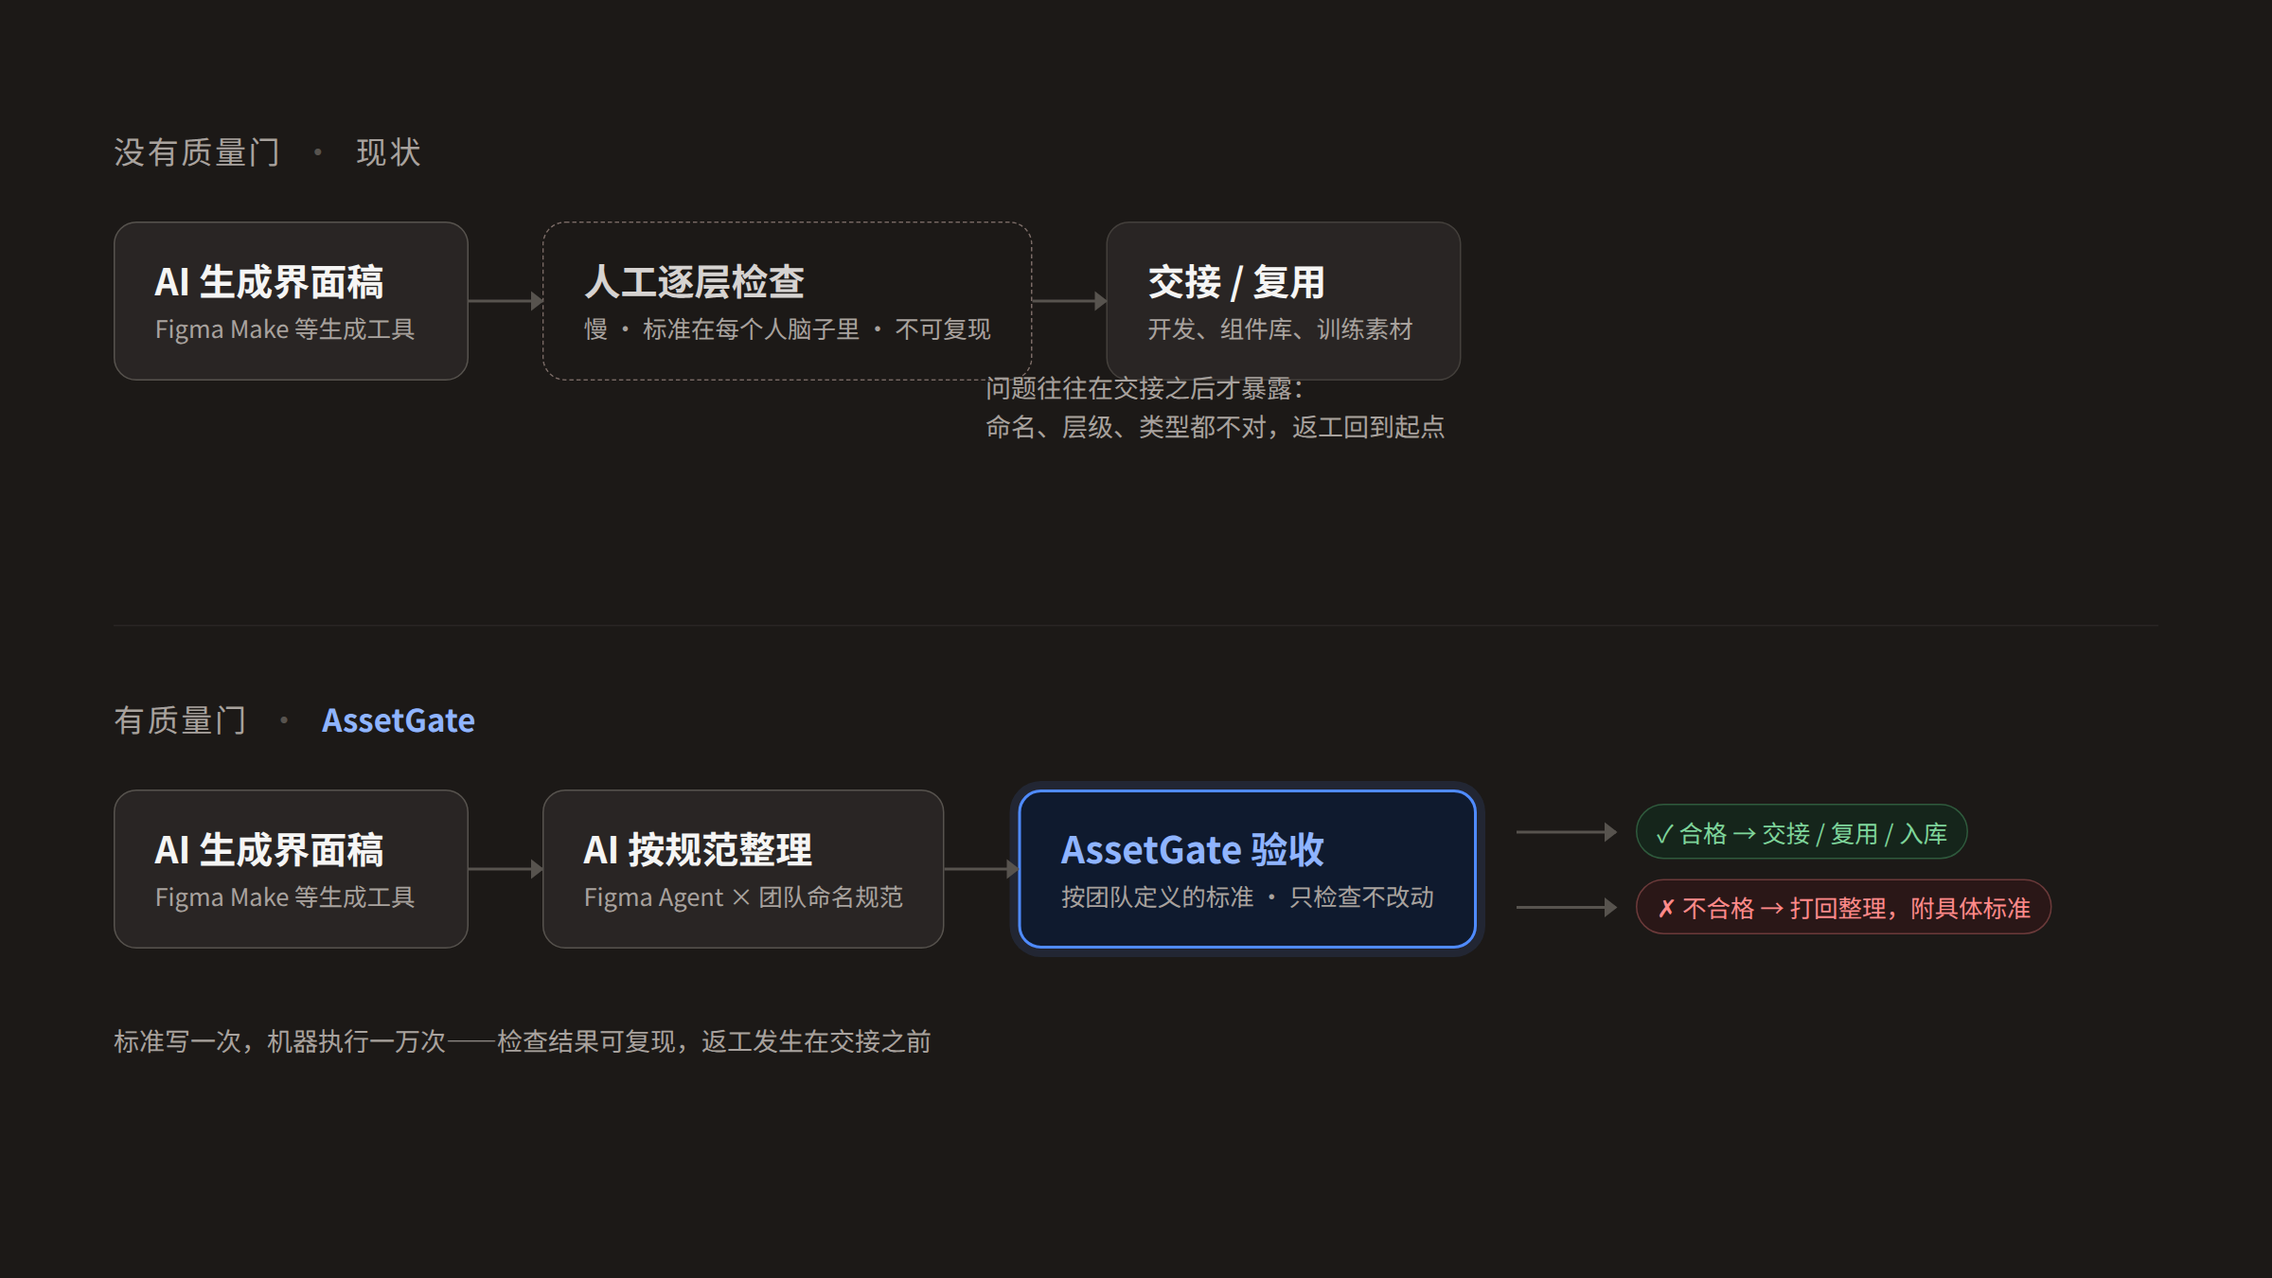
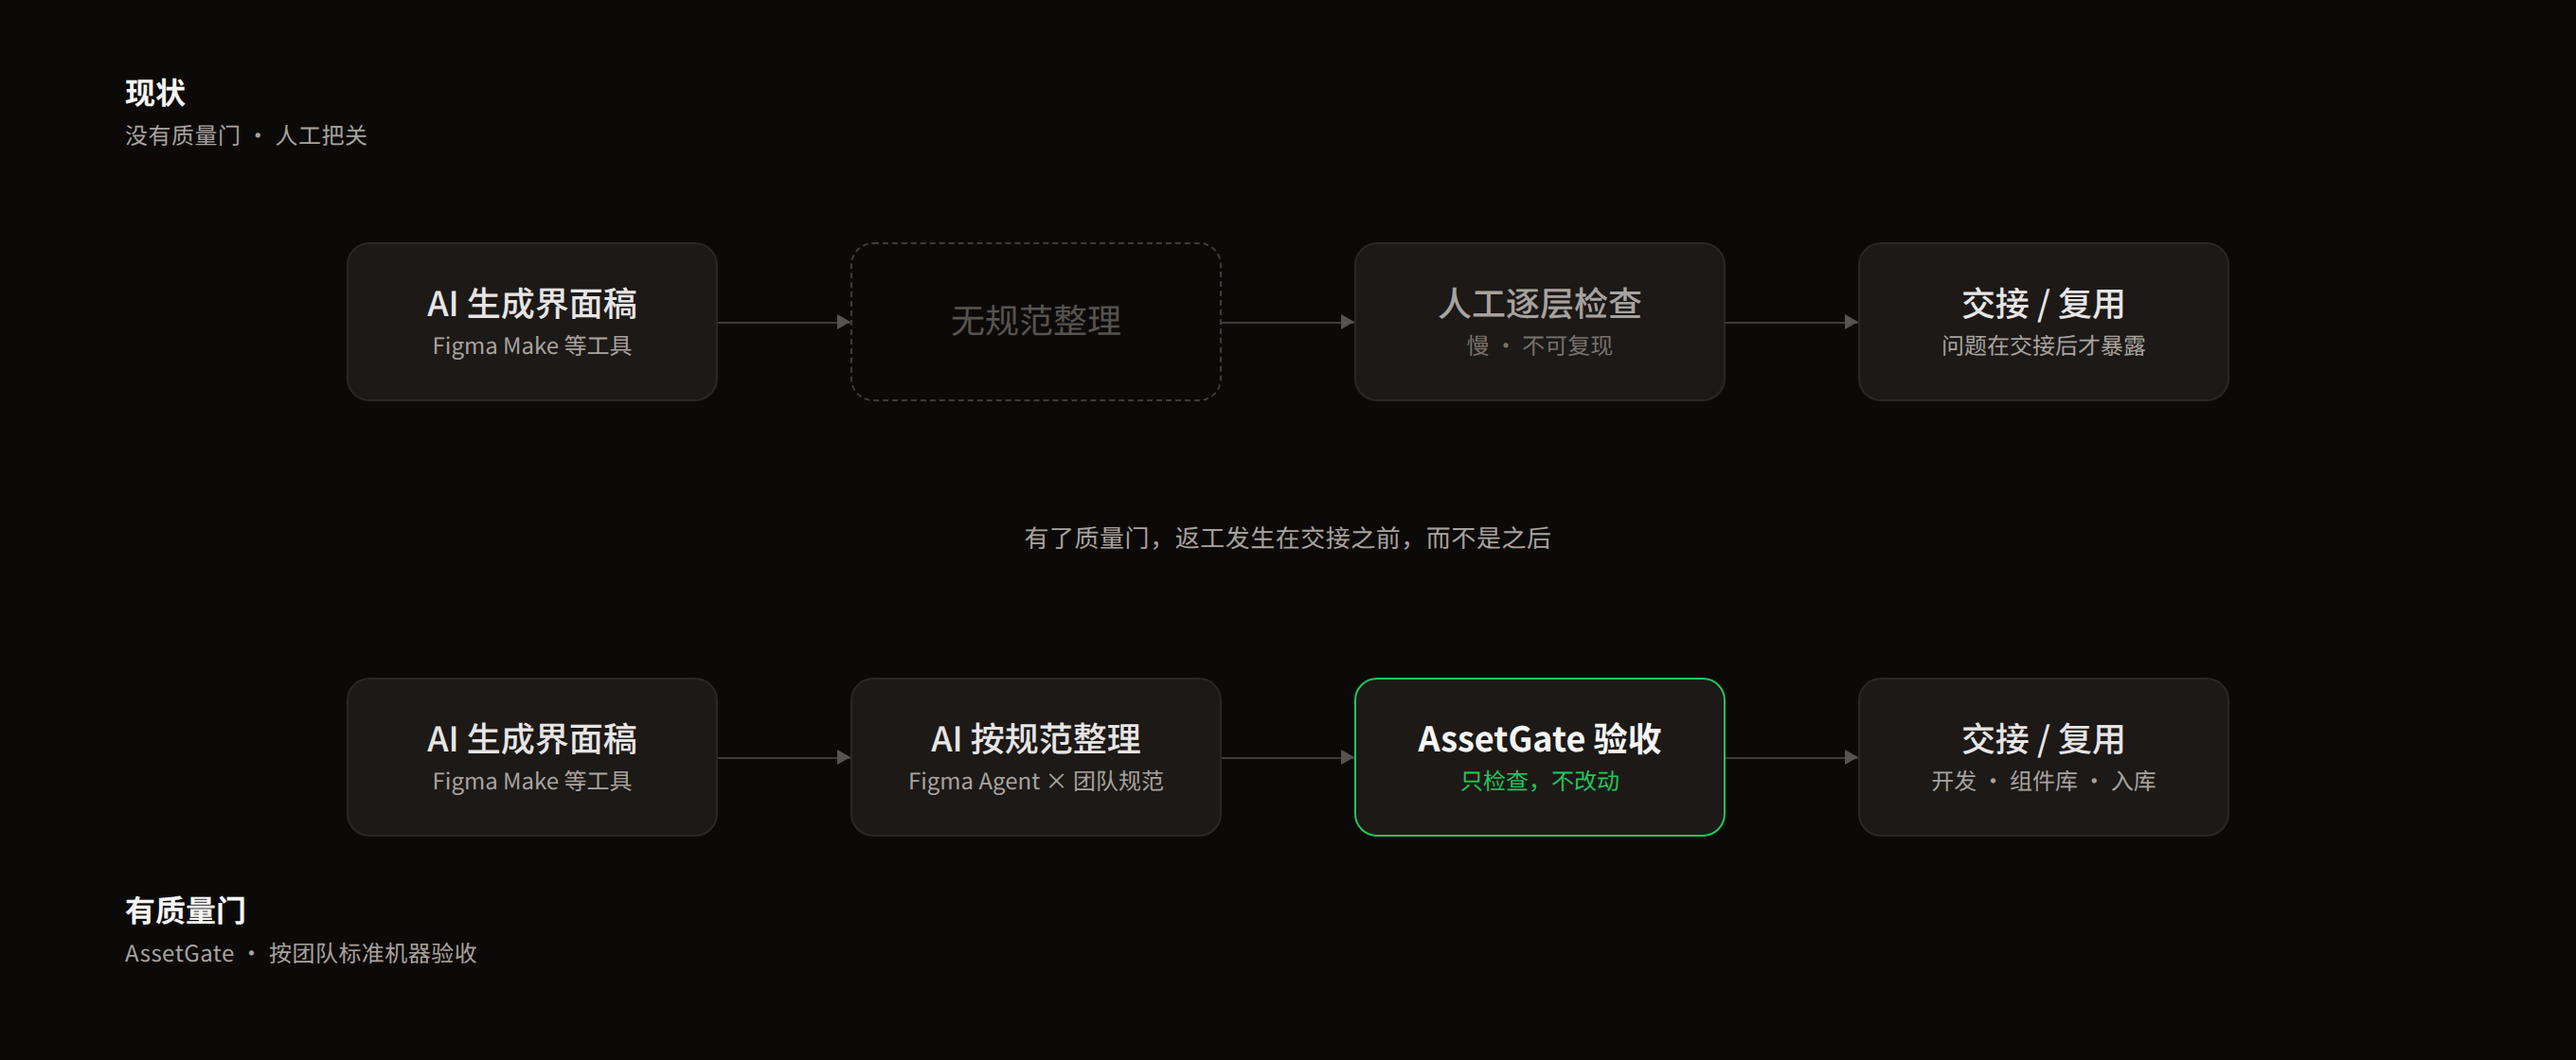
AssetGate: 流程图改为 sketch 版式（对齐签署案例），撤掉对照信息图
Claude-Session: https://claude.ai/code/session_01XcrYFJbYJhGX7UGLtbCWm9

diff --git a/portfolio-site/src/content.js b/portfolio-site/src/content.js
@@ -102,10 +102,10 @@ export const content = {
           facts: ["个人项目 · 一天做出可用 MVP", "Figma 插件 · 原生 JavaScript · 零依赖、无构建", "开源（MIT）· 本地安装即可用"],
           sections: [
             { heading: "起点：结构化缺口", body: "AI 让\"画出一版界面\"变得很快，但产出的文件是非结构化的：图层叫 Frame 1、Container、Text，层级随手嵌套。人能看，机器不能用——无法批量导出、交接或沉淀为可复用资产。\n\n**当执行不再是瓶颈，产出物的结构化质量就成了新瓶颈。**" },
-            { heading: "定位：管线上的质量门", body: "动手前先做了一轮市场调研。现有 Figma 插件集中在两类：**改名**（Figma 内置 AI 重命名、Name Lint、Layeria 等）和**样式一致性**（Design Lint 等）。没有一个是按团队自定义的规则、同时校验命名与结构、并明确区分\"必须修\"与\"建议\"的验收工具——尤其没有针对 AI 生成稿的。\n\nAssetGate 补的是这个位置：**AI 生成 → AI 按规范整理 → AssetGate 验收。** 标准写一次，机器执行一万次，返工发生在交接之前。", images: [{ src: "/assetgate-flow.png", alt: "有无质量门的两条工作流对比：没有它，问题在交接后才暴露；有它，不合格的稿子在交接前被打回整理" }] },
+            { heading: "定位：管线上的质量门", body: "动手前先做了一轮市场调研。现有 Figma 插件集中在两类：**改名**（Figma 内置 AI 重命名、Name Lint、Layeria 等）和**样式一致性**（Design Lint 等）。没有一个是按团队自定义的规则、同时校验命名与结构、并明确区分\"必须修\"与\"建议\"的验收工具——尤其没有针对 AI 生成稿的。\n\nAssetGate 补的是这个位置：**AI 生成 → AI 按规范整理 → AssetGate 验收。** 标准写一次，机器执行一万次，返工发生在交接之前。", images: [{ src: "/assetgate-flow.png", label: "Flow · 有无质量门", alt: "有无质量门的两条工作流对比：没有它，问题在交接后才暴露；有它，不合格的稿子在交接前被打回整理", wide: true }], imageLayout: "sketch" },
             { heading: "三个设计决策", body: "**信任优先。** 每条问题回显它违反的具体标准，点击即跳转定位，界面常驻\"只检查，不改动文件\"；机器判不了的五类情况写在面板最顶部，不假装能判。\n\n**标准由使用者定义。** 做的是\"定义规范 + 执行检查\"的能力，不是某一套具体规范。设定项全是大白话勾选，不需要懂正则。\n\n**只做客观可判的规则。** 确定违规的计入合格率，启发式判断的只算建议——宁可少报，不可误报。" },
             { heading: "用真实文件校准规则", body: "第一版跑在自己的文件上：28 个问题，19 个误报——文字外层的同名 Frame 被判\"不是文字\"，emoji 图标被要求改成 txt/。第二版：9 个问题，全部误报——组件式命名被判\"应为中文\"，有填充的分割线被判\"空图层\"。第三版归零。\n\n三轮同一根因：我在做**字符串匹配**，而正确做法是**先看图层实际是什么**。用户就是我自己，数据没有客气。" },
-            { heading: "对照测试：0% → 100%", body: "同一套界面设计，两份文件。Figma Make 原始产出 88 层、88 个问题；把命名规范交给 AI 重新生成后 87 层、0 个必须修，剩 24 条结构类建议。\n\n**AI 会严格遵守你写下的规则，但不会做你没说的事。** 那 24 条全是规范里没写的两件事：多余的包装层、该组件化的重复元素。", images: [{ src: "/assetgate-compare.png", alt: "对照测试：原始产出合格率 0%（88 层 88 个问题），按规范重新生成后 100%（87 层 0 个必须修、24 条建议）" }] },
+            { heading: "对照测试：0% → 100%", body: "同一套界面设计，两份文件。Figma Make 原始产出 88 层、88 个问题；把命名规范交给 AI 重新生成后 87 层、0 个必须修，剩 24 条结构类建议。\n\n**AI 会严格遵守你写下的规则，但不会做你没说的事。** 那 24 条全是规范里没写的两件事：多余的包装层、该组件化的重复元素。" },
             { heading: "反思与下一步", body: "如果重来，我会把标准**前置到生成环节**：在提示里注入命名与结构要求，让 AI 生成时就合规，检查器只做兜底。\n\n下一步是接上 Figma Agent，让\"AI 整理\"也自动运行——那时 AssetGate 才真正成为一条自动化管线上的门，而不只是一个插件。" }
           ]
         },
@@ -409,10 +409,10 @@ export const content = {
           facts: ["Personal project · Working MVP in one day", "Figma plugin · Vanilla JavaScript · Zero dependencies, no build step", "Open source (MIT) · Installs locally from manifest"],
           sections: [
             { heading: "Starting point: the structure gap", body: "AI made \"draw a version of this screen\" fast, but the output is unstructured: layers named Frame 1, Container, Text; nesting arbitrary. Readable by people, useless to machines — it can't be batch-exported, handed off, or turned into reusable assets.\n\n**Once execution stops being the bottleneck, the structural quality of the output becomes the new one.**" },
-            { heading: "Positioning: a gate on the pipeline", body: "I researched the market before building. Existing Figma plugins cluster in two groups: **renaming** (Figma's built-in AI rename, Name Lint, Layeria and others) and **style consistency** (Design Lint and the like). None validate naming and structure together against team-defined rules, separate must-fix from suggestion, and act as a sign-off step — least of all for AI-generated files.\n\nThat's the slot AssetGate fills: **AI generates → AI tidies to spec → AssetGate signs off.** Write the standard once, let a machine run it ten thousand times, and catch rework before hand-off instead of after.", images: [{ src: "/assetgate-flow.png", alt: "Two workflows compared: without a gate, problems surface after hand-off; with AssetGate, non-compliant files are sent back for tidying before hand-off" }] },
+            { heading: "Positioning: a gate on the pipeline", body: "I researched the market before building. Existing Figma plugins cluster in two groups: **renaming** (Figma's built-in AI rename, Name Lint, Layeria and others) and **style consistency** (Design Lint and the like). None validate naming and structure together against team-defined rules, separate must-fix from suggestion, and act as a sign-off step — least of all for AI-generated files.\n\nThat's the slot AssetGate fills: **AI generates → AI tidies to spec → AssetGate signs off.** Write the standard once, let a machine run it ten thousand times, and catch rework before hand-off instead of after.", images: [{ src: "/assetgate-flow.png", label: "Flow · With and without a gate", alt: "Two workflows compared: without a gate, problems surface after hand-off; with AssetGate, non-compliant files are sent back for tidying before hand-off", wide: true }], imageLayout: "sketch" },
             { heading: "Three design decisions", body: "**Trust first.** Every issue shows the exact standard it violates, clicking jumps to the layer, and the panel permanently states it only inspects, never edits. The five things a machine can't judge are listed at the very top rather than pretended away.\n\n**Standards belong to the user.** I built the ability to define a convention and enforce it, not one particular convention. Every setting is a plain-language checkbox — no regex.\n\n**Only objectively judgeable rules.** Definite violations count toward the pass rate; heuristics are suggestions only. Better to under-report than misreport." },
             { heading: "Calibrating the rules on real files", body: "Version one, run on my own files: 28 issues, 19 false positives — a same-named Frame around each text was flagged as \"not a text layer\", emoji icons were told to become txt/. Version two: 9 issues, all false — component-style names flagged as \"should be Chinese\", a filled divider flagged as \"empty\". Version three: zero.\n\nOne root cause across all three rounds: I was **matching strings** when I should have been **checking what the layer actually is**. The user was me, and the data didn't spare my feelings." },
-            { heading: "Controlled test: 0% → 100%", body: "Same screen design, two files. Figma Make's raw output: 88 layers, 88 issues. After handing the naming spec to the AI and regenerating: 87 layers, zero must-fix, 24 structural suggestions left.\n\n**AI follows the rules you write down and does nothing about the ones you don't.** All 24 were the two things the spec never mentioned: redundant wrapper layers and repeats that should be components.", images: [{ src: "/assetgate-compare.png", alt: "Controlled test: raw output 0% pass rate (88 layers, 88 issues); regenerated to spec 100% (87 layers, 0 must-fix, 24 suggestions)" }] },
+            { heading: "Controlled test: 0% → 100%", body: "Same screen design, two files. Figma Make's raw output: 88 layers, 88 issues. After handing the naming spec to the AI and regenerating: 87 layers, zero must-fix, 24 structural suggestions left.\n\n**AI follows the rules you write down and does nothing about the ones you don't.** All 24 were the two things the spec never mentioned: redundant wrapper layers and repeats that should be components." },
             { heading: "Reflection and next step", body: "If I did it again I'd move the standard **upstream into generation**: inject naming and structure requirements into the prompt so output is compliant at birth, with the linter as a backstop.\n\nNext: wire in a Figma Agent so the \"AI tidies\" step runs on its own. That's when AssetGate becomes a gate on an automated pipeline, not just a plugin." }
           ]
         },
